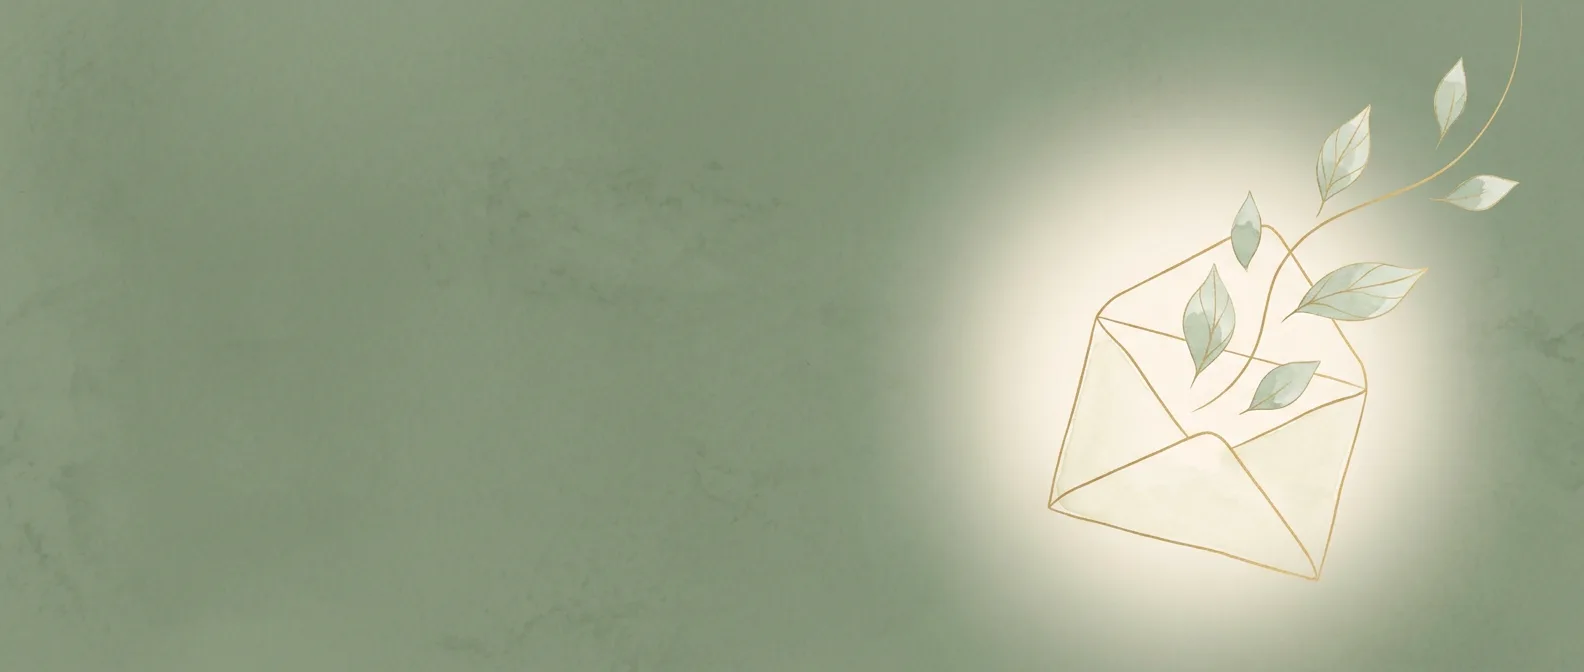
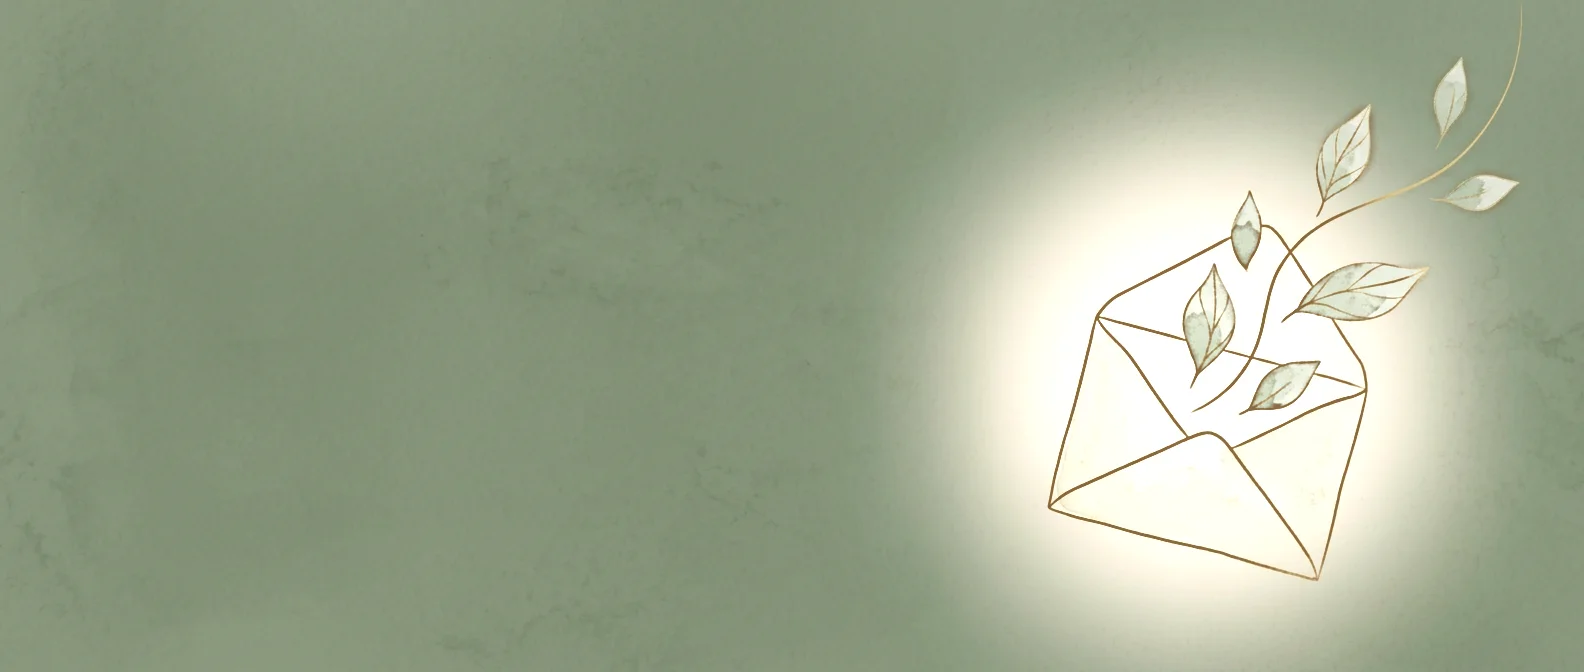
feat(home): contact art matched to Werkwijze; carousel pause button removed

Changed region(s): [[0.6496, 0.25, 0.8971, 0.875]]

diff --git a/src/lib/components/global/Behandelingen.svelte b/src/lib/components/global/Behandelingen.svelte
@@ -612,22 +612,26 @@
 	// With the pointer over the cards (see cursorInBand) it slows to half speed
 	// rather than stopping, and eases back up once the pointer leaves (owner,
 	// 2026-10-29: going from motion to a full stop "is kind of jarring"). It holds
-	// while anything in the carousel has keyboard focus, and for good once the
-	// pause button is pressed (WCAG 2.2.2: anything that moves by itself for more
-	// than five seconds needs a way to stop it). Reduced motion keeps it off.
+	// while anything in the carousel has keyboard focus, and reduced motion keeps it
+	// off. The pause button that sat after the dots was removed on 2026-10-29 at the
+	// owner's request, knowingly: WCAG 2.2.2 asks for a way to stop anything that
+	// moves by itself for more than five seconds, and with hover only slowing it,
+	// keyboard focus and reduced motion are now the only ways to stop it.
+	//
+	// <html data-drift="off"> holds it too. That is for the integration specs only,
+	// which need a still fan to measure; nothing on the site sets it.
 	const IDLE_DRIFT_ENABLED = true;
 	const HOVER_DRIFT_FACTOR = 0.5;
 	const HOVER_SLOW_TAU_MS = 500;
 	const HOVER_RESUME_TAU_MS = 1500;
 	let driftSpeed = 1; // eased towards HOVER_DRIFT_FACTOR under the pointer, 1 otherwise
-	let driftPausedByUser = $state(false);
 	let focusInCarousel = false;
 
 	function driftAllowed(): boolean {
 		return (
 			IDLE_DRIFT_ENABLED &&
 			scrollInView &&
-			!driftPausedByUser &&
+			document.documentElement.dataset.drift !== 'off' &&
 			!focusInCarousel &&
 			!dragging &&
 			!modalAnimating &&
@@ -645,17 +649,10 @@
 		velocity = 0;
 	}
 
-	function toggleDriftPause(): void {
-		driftPausedByUser = !driftPausedByUser;
-		if (driftPausedByUser) holdDrift();
-		else if (motionRafId === null && driftAllowed()) beginDrift();
-	}
-
-	// Keyboard focus only: a mouse click focuses its button too, and the pause
-	// button itself has to be able to restart the drift it sits next to.
+	// Keyboard focus only: a mouse click focuses its button too.
 	function onCarouselFocusIn(e: FocusEvent): void {
 		const el = e.target as HTMLElement;
-		if (el.classList.contains('treatments__pause') || !el.matches(':focus-visible')) return;
+		if (!el.matches(':focus-visible')) return;
 		focusInCarousel = true;
 		holdDrift();
 	}
@@ -2246,26 +2243,6 @@
 				{/each}
 			</ul>
 
-			<!-- Stops and restarts the drift (see IDLE_DRIFT_ENABLED). Sits after the dots,
-			     on every width: the arrows are desktop-only, the drift is not. -->
-			<button
-				type="button"
-				class="treatments__pause"
-				aria-pressed={driftPausedByUser}
-				aria-label={driftPausedByUser ? 'Beweging hervatten' : 'Beweging pauzeren'}
-				data-tooltip={driftPausedByUser ? 'Afspelen' : 'Pauzeren'}
-				onclick={toggleDriftPause}
-			>
-				<svg width="12" height="12" viewBox="0 0 12 12" aria-hidden="true">
-					{#if driftPausedByUser}
-						<path d="M3 1.5v9l7.5-4.5z" fill="currentColor" />
-					{:else}
-						<rect x="2.5" y="1.5" width="2.25" height="9" rx="0.75" fill="currentColor" />
-						<rect x="7.25" y="1.5" width="2.25" height="9" rx="0.75" fill="currentColor" />
-					{/if}
-				</svg>
-			</button>
-
 			<button
 				type="button"
 				class="treatments__nav treatments__nav--next arrow-swap roll-host"
@@ -2660,36 +2637,6 @@
 	.treatments__dot {
 		display: grid;
 		place-items: center;
-	}
-
-	/* The pause toggle: a 24px target like the dots, its icon in the dots' forest
-	   ink, so it reads as part of the same row rather than a third arrow. */
-	.treatments__pause {
-		display: grid;
-		place-items: center;
-		width: 1.5rem;
-		height: 1.5rem;
-		margin-left: var(--space-1);
-		padding: 0;
-		border: none;
-		border-radius: var(--radius-full);
-		background: transparent;
-		color: var(--color-fg-forest);
-		opacity: 0.7;
-		cursor: pointer;
-		transition: opacity var(--motion-arrow) var(--ease-arrow);
-	}
-
-	.treatments__pause:focus-visible {
-		opacity: 1;
-		outline: 2px solid var(--brand-border);
-		outline-offset: 2px;
-	}
-
-	@media (hover: hover) and (pointer: fine) {
-		.treatments__pause:hover {
-			opacity: 1;
-		}
 	}
 
 	/* The button is the 24x24 the WCAG 2.2 target-size minimum asks for; the dot

diff --git a/tests/integration/behandelingen-scroll-drive.spec.ts b/tests/integration/behandelingen-scroll-drive.spec.ts
@@ -5,8 +5,8 @@
  *
  * Covers: (i) it drifts in next()'s direction with nothing touched; (ii) a scroll
  * down adds about a card per SCROLL_PX_PER_STEP on top of the drift; (iii) a
- * scroll up speeds it up too, never backwards; (iv) it holds under the pointer and
- * on the pause button, and the button restarts it; (v) the spacing invariant
+ *  scroll up speeds it up too, never backwards; (iv) it slows to half under the pointer and
+ * eases back up once it leaves; (v) the spacing invariant
  * holds; (vi) reduced motion keeps it still, scroll included.
  *
  * Travel is summed frame by frame on one pivot's --pos (unwrapped across the
@@ -124,9 +124,7 @@ test('a scroll up speeds it up the same way, never backwards', async ({ page }) 
 	expect(back).toBe(0);
 });
 
-test('it slows to half under the pointer, and the pause button stops and restarts it', async ({
-	page
-}) => {
+test('it slows to half under the pointer and eases back up after', async ({ page }) => {
 	await openOnFan(page);
 	const card = page.locator('.treatments__pivot').nth(await centreIndex(page));
 	const box = (await card.boundingBox())!;
@@ -137,16 +135,12 @@ test('it slows to half under the pointer, and the pause button stops and restart
 	expect(slow, 'still moving under the pointer').toBeLessThan(-2 / DRIFT_S / 4);
 	expect(slow, 'at about half speed').toBeGreaterThan((-2 / DRIFT_S) * 0.7);
 
+	// Off the cards it keeps moving straight away and eases back up to full speed.
 	await page.mouse.move(2, 2);
-	await page.locator('.treatments__pause').click();
-	await page.mouse.move(2, 2);
-	await expect(page.locator('.treatments__pause')).toHaveAttribute('aria-pressed', 'true');
-	await page.waitForTimeout(2500); // longer than the idle restart, which must not fire
-	expect((await travel(page, 1000)).sum, 'paused').toBe(0);
-
-	await page.locator('.treatments__pause').click();
-	await page.mouse.move(2, 2);
-	expect((await travel(page, 1000)).sum, 'running again').toBeLessThan(0);
+	expect((await travel(page, 500)).sum, 'moving at once after the pointer leaves').toBeLessThan(0);
+	await page.waitForTimeout(4000); // HOVER_RESUME_TAU_MS 1500, well over twice
+	const full = (await travel(page, 2000)).sum;
+	expect(full, 'back to about full speed').toBeLessThan((-2 / DRIFT_S) * 0.75);
 });
 
 test('prefers-reduced-motion: reduce → nothing moves, scroll included', async ({ page }) => {

diff --git a/tests/integration/behandelingen-service-modal.spec.ts b/tests/integration/behandelingen-service-modal.spec.ts
@@ -54,10 +54,9 @@ test.describe('desktop', () => {
 
 	test.beforeEach(async ({ page }) => {
 		await page.goto('/');
-		// The fan drifts by itself while on screen (2026-10-28); pressed before it is in
-		// view, the pause button keeps it on whole cards for these tests. A DOM click, so
-		// nothing scrolls.
-		await page.locator('.treatments__pause').evaluate((el: HTMLElement) => el.click());
+		// The fan drifts by itself while on screen (2026-10-28); data-drift="off", set before
+		// it is in view, keeps it on whole cards for these tests.
+		await page.evaluate(() => (document.documentElement.dataset.drift = 'off'));
 		await page.locator('.treatments__fan').scrollIntoViewIfNeeded();
 	});
 
@@ -220,10 +219,9 @@ test.describe('desktop', () => {
 
 		test('open and close are instant, no growth, no fade', async ({ page }) => {
 			await page.goto('/');
-			// The fan drifts by itself while on screen (2026-10-28); pressed before it is in
-			// view, the pause button keeps it on whole cards for these tests. A DOM click, so
-			// nothing scrolls.
-			await page.locator('.treatments__pause').evaluate((el: HTMLElement) => el.click());
+			// The fan drifts by itself while on screen (2026-10-28); data-drift="off", set before
+			// it is in view, keeps it on whole cards for these tests.
+			await page.evaluate(() => (document.documentElement.dataset.drift = 'off'));
 			await page.locator('.treatments__fan').scrollIntoViewIfNeeded();
 			const centre = await indexAt(page, 0);
 
@@ -251,10 +249,9 @@ test.describe('mobile', () => {
 		page
 	}) => {
 		await page.goto('/');
-		// The fan drifts by itself while on screen (2026-10-28); pressed before it is in
-		// view, the pause button keeps it on whole cards for these tests. A DOM click, so
-		// nothing scrolls.
-		await page.locator('.treatments__pause').evaluate((el: HTMLElement) => el.click());
+		// The fan drifts by itself while on screen (2026-10-28); data-drift="off", set before
+		// it is in view, keeps it on whole cards for these tests.
+		await page.evaluate(() => (document.documentElement.dataset.drift = 'off'));
 		await page.locator('.treatments__fan').scrollIntoViewIfNeeded();
 		const centre = await indexAt(page, 0);
 

diff --git a/tests/integration/behandelingen-click-to-jump.spec.ts b/tests/integration/behandelingen-click-to-jump.spec.ts
@@ -59,10 +59,9 @@ test.describe('desktop', () => {
 
 	test.beforeEach(async ({ page }) => {
 		await page.goto('/');
-		// The fan drifts by itself while on screen (2026-10-28); pressed before it is in
-		// view, the pause button keeps it on whole cards for these tests. A DOM click, so
-		// nothing scrolls.
-		await page.locator('.treatments__pause').evaluate((el: HTMLElement) => el.click());
+		// The fan drifts by itself while on screen (2026-10-28); data-drift="off", set before
+		// it is in view, keeps it on whole cards for these tests.
+		await page.evaluate(() => (document.documentElement.dataset.drift = 'off'));
 		await page.locator('.treatments__fan').scrollIntoViewIfNeeded();
 	});
 
@@ -154,10 +153,9 @@ test.describe('mobile', () => {
 
 	test.beforeEach(async ({ page }) => {
 		await page.goto('/');
-		// The fan drifts by itself while on screen (2026-10-28); pressed before it is in
-		// view, the pause button keeps it on whole cards for these tests. A DOM click, so
-		// nothing scrolls.
-		await page.locator('.treatments__pause').evaluate((el: HTMLElement) => el.click());
+		// The fan drifts by itself while on screen (2026-10-28); data-drift="off", set before
+		// it is in view, keeps it on whole cards for these tests.
+		await page.evaluate(() => (document.documentElement.dataset.drift = 'off'));
 		await page.locator('.treatments__fan').scrollIntoViewIfNeeded();
 	});
 

diff --git a/tests/integration/behandelingen-drag-band.spec.ts b/tests/integration/behandelingen-drag-band.spec.ts
@@ -39,10 +39,9 @@ test.describe('desktop', () => {
 
 	test.beforeEach(async ({ page }) => {
 		await page.goto('/');
-		// The fan drifts by itself while on screen (2026-10-28); pressed before it is in
-		// view, the pause button keeps it on whole cards for these tests. A DOM click, so
-		// nothing scrolls.
-		await page.locator('.treatments__pause').evaluate((el: HTMLElement) => el.click());
+		// The fan drifts by itself while on screen (2026-10-28); data-drift="off", set before
+		// it is in view, keeps it on whole cards for these tests.
+		await page.evaluate(() => (document.documentElement.dataset.drift = 'off'));
 		await page.locator('.treatments__fan').scrollIntoViewIfNeeded();
 	});
 
@@ -205,10 +204,9 @@ test.describe('mobile', () => {
 
 	test.beforeEach(async ({ page }) => {
 		await page.goto('/');
-		// The fan drifts by itself while on screen (2026-10-28); pressed before it is in
-		// view, the pause button keeps it on whole cards for these tests. A DOM click, so
-		// nothing scrolls.
-		await page.locator('.treatments__pause').evaluate((el: HTMLElement) => el.click());
+		// The fan drifts by itself while on screen (2026-10-28); data-drift="off", set before
+		// it is in view, keeps it on whole cards for these tests.
+		await page.evaluate(() => (document.documentElement.dataset.drift = 'off'));
 		await page.locator('.treatments__fan').scrollIntoViewIfNeeded();
 	});
 

diff --git a/tests/integration/behandelingen-button-retarget.spec.ts b/tests/integration/behandelingen-button-retarget.spec.ts
@@ -42,10 +42,9 @@ test('a second Next press mid-flight extends the same motion instead of stalling
 	page
 }) => {
 	await page.goto('/');
-	// The fan drifts by itself while on screen (2026-10-28); pressed before it is in
-	// view, the pause button keeps it on whole cards for these tests. A DOM click, so
-	// nothing scrolls.
-	await page.locator('.treatments__pause').evaluate((el: HTMLElement) => el.click());
+	// The fan drifts by itself while on screen (2026-10-28); data-drift="off", set before
+	// it is in view, keeps it on whole cards for these tests.
+	await page.evaluate(() => (document.documentElement.dataset.drift = 'off'));
 	await page.locator('.treatments__fan').scrollIntoViewIfNeeded();
 
 	// The item centred (--pos === 0) before anything moves. DOM order

diff --git a/tests/integration/behandelingen-drag-recycle.spec.ts b/tests/integration/behandelingen-drag-recycle.spec.ts
@@ -38,10 +38,9 @@ test('a long continuous drag spanning more than `count` cards keeps offset bound
 	page
 }) => {
 	await page.goto('/');
-	// The fan drifts by itself while on screen (2026-10-28); pressed before it is in
-	// view, the pause button keeps it on whole cards for these tests. A DOM click, so
-	// nothing scrolls.
-	await page.locator('.treatments__pause').evaluate((el: HTMLElement) => el.click());
+	// The fan drifts by itself while on screen (2026-10-28); data-drift="off", set before
+	// it is in view, keeps it on whole cards for these tests.
+	await page.evaluate(() => (document.documentElement.dataset.drift = 'off'));
 	await page.locator('.treatments__fan').scrollIntoViewIfNeeded();
 
 	const count = await page.locator('.treatments__pivot').count();

diff --git a/.planning/quick/261029-cci-contact-illustrations/SUMMARY.md b/.planning/quick/261029-cci-contact-illustrations/SUMMARY.md
@@ -23,3 +23,11 @@ date: 2026-10-29
 ## Checks
 svelte-check 0 errors; eslint and prettier clean; service-modal and contact-section specs pass;
 visual baselines updated for desktop only (mobile unchanged).
+
+## Follow-up (same day)
+- Glow and lines matched to the Werkwijze cards (`werkwijze-match.cjs`): the line art is
+  pulled to a crisp brown-gold inside the glow, and the glow lifted to Werkwijze's peak
+  (~123 luminance above the green). A dimmed version was tried first and rejected.
+- Pause button removed from the carousel controls (owner). Noted in code: WCAG 2.2.2 now
+  rests on keyboard focus and reduced motion only. Specs hold the fan with
+  `<html data-drift="off">` instead.
